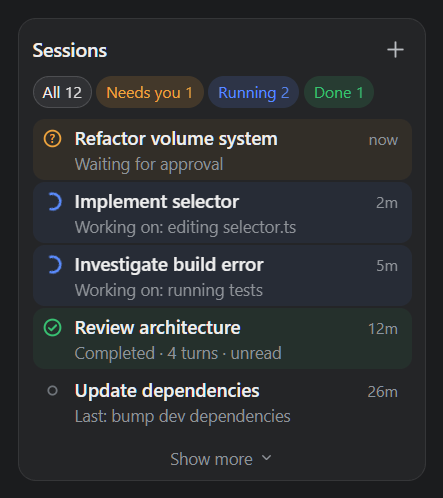
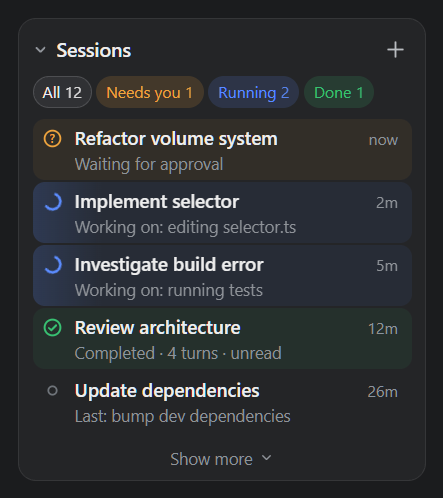
更新 README 和文档，添加卡片收起/展开功能说明；更新代码以支持卡片状态记忆；修复样式和功能描述

Changed region(s): [[0.0587, 0.3614, 0.1467, 0.6024], [0.0587, 0.0904, 0.2935, 0.1205]]

diff --git a/client/client.js b/client/client.js
@@ -74,6 +74,8 @@ window.__ModuleLoader__.load({
       timeHours: '{n}h',
       timeDays: '{n}d',
       settingsTitle: 'Sessions card',
+      collapseCard: 'Collapse',
+      expandCard: 'Expand',
       settingsIntro: 'Sidebar card appearance and behavior.',
       settingsLanguage: 'Language',
       settingsRows: 'Default rows',
@@ -117,6 +119,8 @@ window.__ModuleLoader__.load({
       timeHours: '{n}时',
       timeDays: '{n}天',
       settingsTitle: '会话卡片',
+      collapseCard: '收起',
+      expandCard: '展开',
       settingsIntro: '侧栏卡片的外观与行为。',
       settingsLanguage: '语言',
       settingsRows: '默认条目数',
@@ -148,7 +152,7 @@ window.__ModuleLoader__.load({
     //#region settings store
     var SETTINGS_KEY = 'dsh-session-dashboard/settings/v1'
     var ROW_OPTIONS = [3, 5, 8, 10]
-    var DEFAULT_SETTINGS = { lang: 'en', rows: 5 }
+    var DEFAULT_SETTINGS = { lang: 'en', rows: 5, collapsed: false }
     var settingsListeners = new Set()
 
     function normalizeRows(value) {
@@ -159,12 +163,12 @@ window.__ModuleLoader__.load({
     function readSettings() {
       try {
         var raw = window.localStorage.getItem(SETTINGS_KEY)
-        if (raw === null) return { lang: DEFAULT_SETTINGS.lang, rows: DEFAULT_SETTINGS.rows }
+        if (raw === null) return { lang: DEFAULT_SETTINGS.lang, rows: DEFAULT_SETTINGS.rows, collapsed: DEFAULT_SETTINGS.collapsed }
         var parsed = JSON.parse(raw)
         var lang = parsed && parsed.lang === 'zh' ? 'zh' : 'en'
-        return { lang: lang, rows: normalizeRows(parsed && parsed.rows) }
+        return { lang: lang, rows: normalizeRows(parsed && parsed.rows), collapsed: parsed !== null && typeof parsed === 'object' && parsed.collapsed === true }
       } catch (_error) {
-        return { lang: DEFAULT_SETTINGS.lang, rows: DEFAULT_SETTINGS.rows }
+        return { lang: DEFAULT_SETTINGS.lang, rows: DEFAULT_SETTINGS.rows, collapsed: DEFAULT_SETTINGS.collapsed }
       }
     }
 
@@ -172,6 +176,7 @@ window.__ModuleLoader__.load({
       var next = Object.assign({}, readSettings(), patch)
       next.rows = normalizeRows(next.rows)
       next.lang = next.lang === 'zh' ? 'zh' : 'en'
+      next.collapsed = next.collapsed === true
       try {
         window.localStorage.setItem(SETTINGS_KEY, JSON.stringify(next))
       } catch (_error) {
@@ -209,9 +214,26 @@ window.__ModuleLoader__.load({
       '.dsd-root{width:100%;min-width:0;margin:0 0 8px;box-sizing:border-box}',
       '.dsd-root-rail{width:auto;margin:0}',
       '.dsd-root *{box-sizing:border-box}',
-      '.dsd-card{display:flex;flex-direction:column;gap:7px;width:100%;min-width:0;padding:9px 9px 7px;border:1px solid var(--dsw-alias-border-l1,rgba(255,255,255,.08));border-radius:12px;background:var(--dsw-alias-bg-layer-1,rgba(255,255,255,.03));color:var(--dsw-alias-label-primary)}',
+      '.dsd-card.dsd-card-collapsed{padding:6px 9px}',
+      '.dsd-card{transition:padding .22s ease}',
+      '.dsd-expand{display:grid;grid-template-rows:1fr;margin-top:7px;transition:grid-template-rows .22s ease,margin-top .22s ease}',
+      '.dsd-expand-collapsed{grid-template-rows:0fr;margin-top:0}',
+      '.dsd-expand-inner{display:flex;flex-direction:column;gap:7px;min-height:0;overflow:hidden}',
+      '.dsd-card{display:flex;flex-direction:column;gap:0;width:100%;min-width:0;padding:9px 9px 7px;border:1px solid var(--dsw-alias-border-l1,rgba(255,255,255,.08));border-radius:12px;background:var(--dsw-alias-bg-layer-1,rgba(255,255,255,.03));color:var(--dsw-alias-label-primary)}',
       '.dsd-head{display:flex;align-items:center;gap:6px;min-width:0}',
-      '.dsd-title{margin:0;font-size:13px;line-height:18px;font-weight:600;color:var(--dsw-alias-label-primary);white-space:nowrap}',
+      '.dsd-head-toggle{display:flex;align-items:center;gap:6px;flex:1;min-width:0;padding:0;margin:0;border:0;border-radius:6px;background:transparent;color:inherit;font:inherit;text-align:left;cursor:pointer}',
+      '.dsd-head-toggle:hover .dsd-title{color:var(--dsw-alias-label-primary)}',
+      '.dsd-head-toggle:focus-visible{outline:2px solid var(--dsw-alias-brand-primary);outline-offset:2px}',
+      '.dsd-caret{display:inline-flex;flex:none;color:var(--dsw-alias-label-tertiary);transition:transform .15s ease}',
+      '.dsd-caret-open{transform:rotate(90deg)}',
+      '.dsd-title{margin:0;font-size:13px;line-height:18px;font-weight:600;color:var(--dsw-alias-label-primary);white-space:nowrap;overflow:hidden;text-overflow:ellipsis}',
+      '.dsd-mini{display:inline-flex;align-items:center;gap:7px;margin-left:2px;flex:none}',
+      '.dsd-mini-item{display:inline-flex;align-items:center;gap:3px;font-size:10px;line-height:14px;font-weight:600;font-variant-numeric:tabular-nums}',
+      '.dsd-mini-dot{width:5px;height:5px;border-radius:50%;flex:none;background:currentColor}',
+      '.dsd-mini-needs{color:var(--dsw-alias-state-warn-primary)}',
+      '.dsd-mini-running{color:var(--dsw-alias-state-business-primary)}',
+      '.dsd-mini-done{color:var(--dsw-alias-state-success-primary)}',
+      '.dsd-mini-total{font-size:10px;line-height:14px;color:var(--dsw-alias-label-tertiary);font-variant-numeric:tabular-nums}',
       '.dsd-head-actions{display:flex;align-items:center;gap:2px;margin-left:auto}',
       '.dsd-icon-btn{display:inline-flex;align-items:center;justify-content:center;width:22px;height:22px;padding:0;border:0;border-radius:6px;background:transparent;color:var(--dsw-alias-label-secondary);cursor:pointer}',
       '.dsd-icon-btn:hover{background:var(--dsw-alias-interactive-bg-hover);color:var(--dsw-alias-label-primary)}',
@@ -491,6 +513,22 @@ window.__ModuleLoader__.load({
         'aria-hidden': 'true',
         focusable: 'false',
       }, h('path', { d: up ? 'M4 10l4-4 4 4' : 'M4 6l4 4 4-4' }))
+    }
+
+    /** Small right-pointing disclosure caret; rotated by CSS when the card is open. */
+    function CaretIcon() {
+      return h('svg', {
+        width: 10,
+        height: 10,
+        viewBox: '0 0 16 16',
+        fill: 'none',
+        stroke: 'currentColor',
+        strokeWidth: 1.8,
+        strokeLinecap: 'round',
+        strokeLinejoin: 'round',
+        'aria-hidden': 'true',
+        focusable: 'false',
+      }, h('path', { d: 'M6 3.5l4.5 4.5L6 12.5' }))
     }
 
     /** Rail glyph: an activity pulse, drawn in the collapsed sidebar's icon cell. */
@@ -798,43 +836,85 @@ window.__ModuleLoader__.load({
       }
 
       var expandable = rows.length > LIMIT
-      return h('div', { className: 'dsd-root' },
-        h('div', { className: 'dsd-card' }, [
-          h('div', { key: 'head', className: 'dsd-head' }, [
-            h('h2', { key: 'title', className: 'dsd-title' }, t('title')),
-            h('div', { key: 'actions', className: 'dsd-head-actions' }, [
-              h('button', {
-                key: 'new',
-                type: 'button',
-                className: 'dsd-icon-btn',
-                'aria-label': t('newSession'),
-                title: t('newSession'),
-                onClick: onNewSession,
-              }, h(PlusIcon)),
-            ]),
-          ]),
-          h('div', { key: 'chips', className: 'dsd-chips', role: 'group', 'aria-label': t('filters') },
-            chips.map(function (chip) {
-              return h(FilterChip, {
-                key: chip.key,
-                tone: chip.tone,
-                label: chip.label,
-                count: chip.count,
-                active: filter === chip.key,
-                onSelect: function () { setFilter(chip.key) },
-              })
-            })),
-          h('div', { key: 'list', className: 'dsd-list', role: 'list' }, body),
-          expandable ? h('button', {
-            key: 'more',
+      var collapsed = settings.collapsed === true
+      var collapseLabel = collapsed ? t('expandCard') : t('collapseCard')
+
+      function miniItem(key, tone, value, label) {
+        return h('span', {
+          key: key,
+          className: 'dsd-mini-item dsd-mini-' + tone,
+          title: label + ': ' + value,
+        }, [
+          h('span', { key: 'dot', className: 'dsd-mini-dot' }),
+          String(value),
+        ])
+      }
+
+      var collapsedSummary = []
+      if (counts.needs > 0) collapsedSummary.push(miniItem('needs', 'needs', counts.needs, t('filterNeeds')))
+      if (counts.running > 0) collapsedSummary.push(miniItem('running', 'running', counts.running, t('filterRunning')))
+      if (counts.done > 0) collapsedSummary.push(miniItem('done', 'done', counts.done, t('filterDone')))
+      if (collapsedSummary.length === 0) {
+        collapsedSummary.push(h('span', { key: 'total', className: 'dsd-mini-total' }, String(counts.all)))
+      }
+
+      var children = [
+        h('div', { key: 'head', className: 'dsd-head' }, [
+          h('button', {
+            key: 'toggle',
             type: 'button',
-            className: 'dsd-foot',
-            onClick: function () { setExpanded(!expanded) },
+            className: 'dsd-head-toggle',
+            'aria-label': collapseLabel,
+            'aria-expanded': collapsed ? 'false' : 'true',
+            title: collapseLabel,
+            onClick: function () { writeSettings({ collapsed: !collapsed }) },
           }, [
-            h('span', { key: 'label' }, expanded ? t('collapse') : t('expand')),
-            h(ChevronIcon, { key: 'chevron', up: expanded }),
-          ]) : null,
+            h('span', { key: 'caret', className: collapsed ? 'dsd-caret' : 'dsd-caret dsd-caret-open' }, h(CaretIcon)),
+            h('span', { key: 'title', className: 'dsd-title' }, t('title')),
+            collapsed ? h('span', { key: 'summary', className: 'dsd-mini' }, collapsedSummary) : null,
+          ]),
+          h('div', { key: 'actions', className: 'dsd-head-actions' }, [
+            h('button', {
+              key: 'new',
+              type: 'button',
+              className: 'dsd-icon-btn',
+              'aria-label': t('newSession'),
+              title: t('newSession'),
+              onClick: onNewSession,
+            }, h(PlusIcon)),
+          ]),
         ]),
+      ]
+      children.push(h('div', {
+        key: 'expand',
+        className: collapsed ? 'dsd-expand dsd-expand-collapsed' : 'dsd-expand',
+        'aria-hidden': collapsed ? 'true' : 'false',
+        inert: collapsed ? '' : undefined,
+      }, h('div', { key: 'inner', className: 'dsd-expand-inner' }, [
+        h('div', { key: 'chips', className: 'dsd-chips', role: 'group', 'aria-label': t('filters') },
+          chips.map(function (chip) {
+            return h(FilterChip, {
+              key: chip.key,
+              tone: chip.tone,
+              label: chip.label,
+              count: chip.count,
+              active: filter === chip.key,
+              onSelect: function () { setFilter(chip.key) },
+            })
+          })),
+        h('div', { key: 'list', className: 'dsd-list', role: 'list' }, body),
+        expandable ? h('button', {
+          key: 'more',
+          type: 'button',
+          className: 'dsd-foot',
+          onClick: function () { setExpanded(!expanded) },
+        }, [
+          h('span', { key: 'label' }, expanded ? t('collapse') : t('expand')),
+          h(ChevronIcon, { key: 'chevron', up: expanded }),
+        ]) : null,
+      ])))
+      return h('div', { className: 'dsd-root' },
+        h('div', { className: collapsed ? 'dsd-card dsd-card-collapsed' : 'dsd-card' }, children),
       )
     }
     //#endregion

diff --git a/README.md b/README.md
@@ -10,6 +10,7 @@ English | [中文](README.zh.md)
 - One row per session: status glyph, title, current activity (Waiting for approval / Working / Completed unread / Idle) and relative time
 - Filters All / Needs you / Running / Done with live counts; the card keeps the same height when switching filters
 - Click a row to open that session; `+` starts a new session
+- Click the card header (disclosure caret) to collapse or expand it; the collapsed header keeps the current status counts, and the state is remembered in this browser
 - 5 rows by default, expandable to 10
 - Settings → Sessions card section: card language (English / 中文) and default row count
 - Needs-you, running and unread-completed sessions are listed first; running rows have a sweep animation
